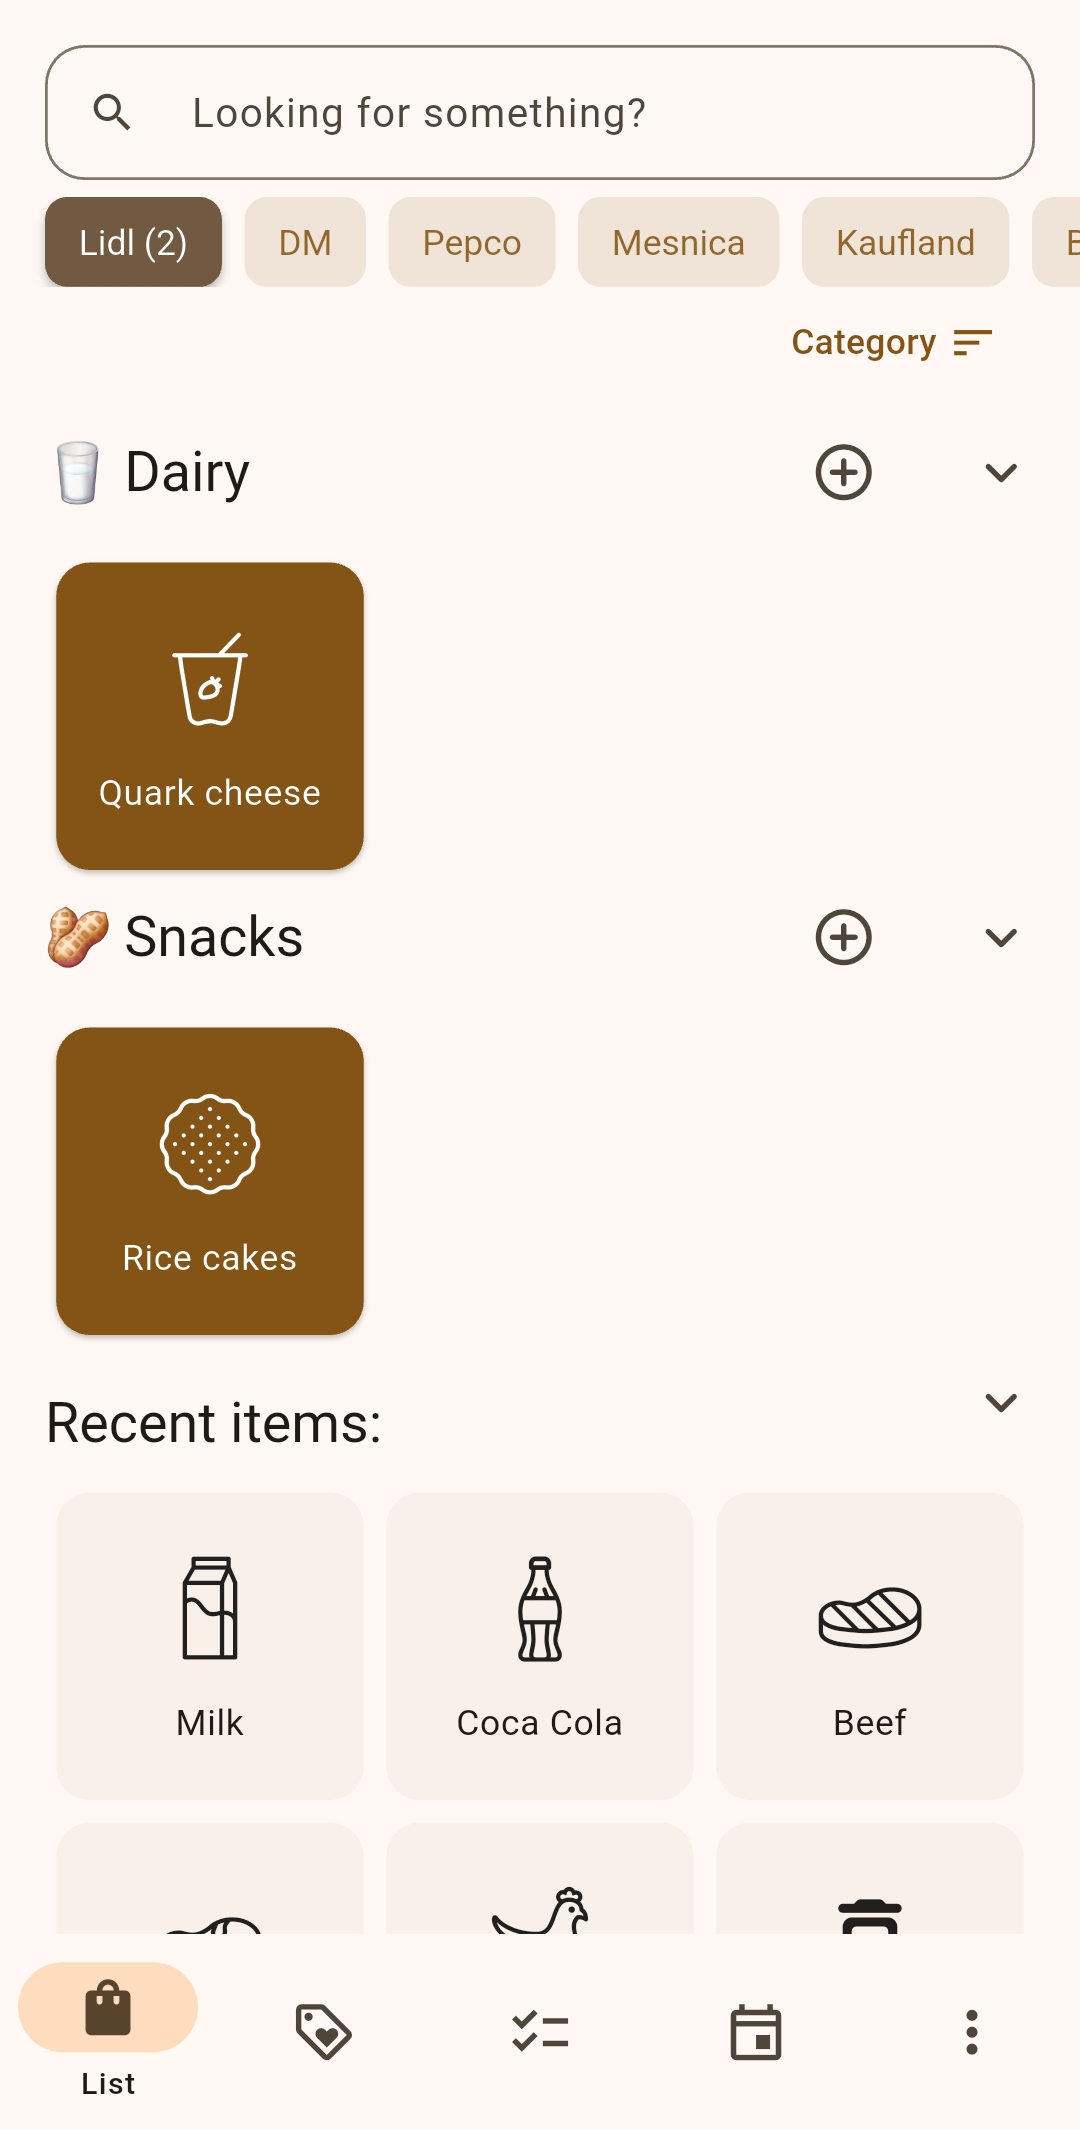
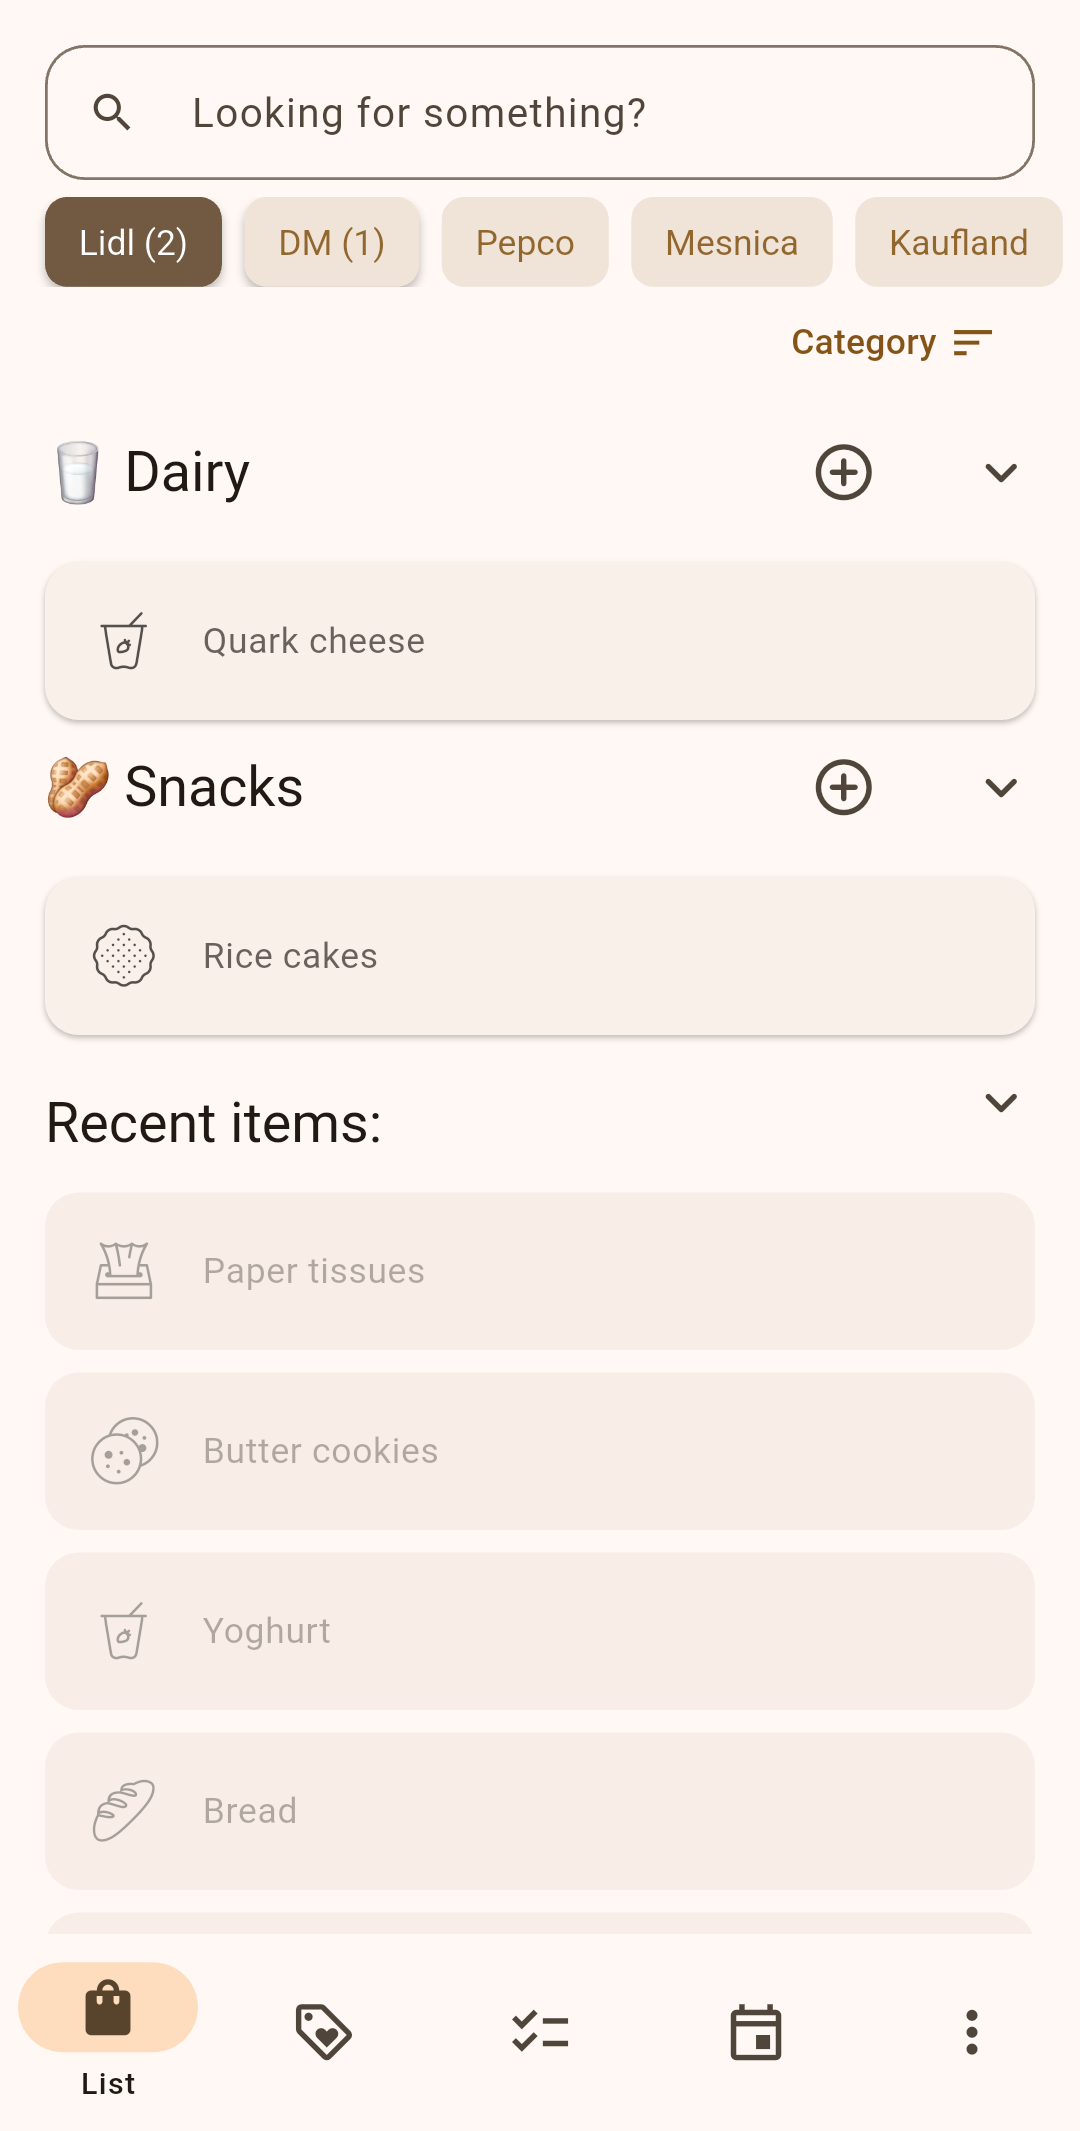
chore: update readme and screenshots

diff --git a/README.md b/README.md
@@ -46,6 +46,7 @@ Changes from upstream:
 - Recipes and expenses removed
 - Planned buys, loyalty cards, tasks, notes, events, & persons (with birthdays and gift ideas) added, along with document vault(e.g. for warranties)
 - Shopping lists managed inline from the main-view header (add, rename, delete; long-press for actions)
+- Move an item to another list from the item details page
 - Categories managed inline from the item details page (create, rename, delete)
 - Quick-add items straight into a category from the categorized list; a non-existent item is created in that category and added to the list
 - Shopping-list renames sync to all household members in real time
@@ -57,10 +58,11 @@ See [CHANGELOG.md](CHANGELOG.md) for the full history of fork changes.
 
 | | |
 | :---: | :---: |
-| ![](/.github/screenshots/lists.png) | ![](/.github/screenshots/tasks.png) |
-| ![](/.github/screenshots/calendar.png) | ![](/.github/screenshots/documents.png) |
-| ![](/.github/screenshots/loyalty-cards.png) | ![](/.github/screenshots/loyalty-cards-2.png) |
-| ![](/.github/screenshots/more.png) | |
+| ![](/.github/screenshots/lists.png) | ![](/.github/screenshots/add-to-category.png) |
+| ![](/.github/screenshots/move-to-another-shopping-list.png) | ![](/.github/screenshots/add-new-item-in-category.png) |
+| ![](/.github/screenshots/tasks.png) | ![](/.github/screenshots/calendar.png) |
+| ![](/.github/screenshots/documents.png) | ![](/.github/screenshots/loyalty-cards.png) |
+| ![](/.github/screenshots/loyalty-cards-2.png) | ![](/.github/screenshots/more.png) |
 
 ## 🤖 App Install
 
